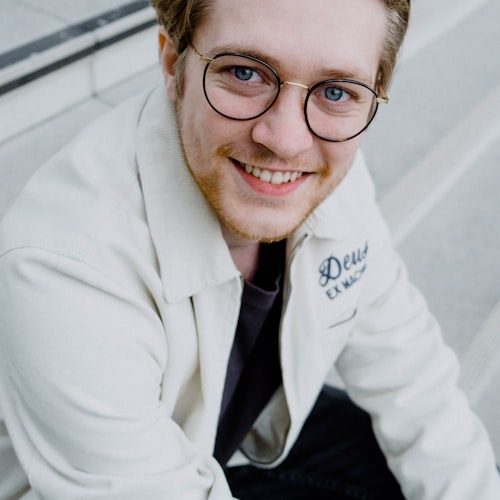
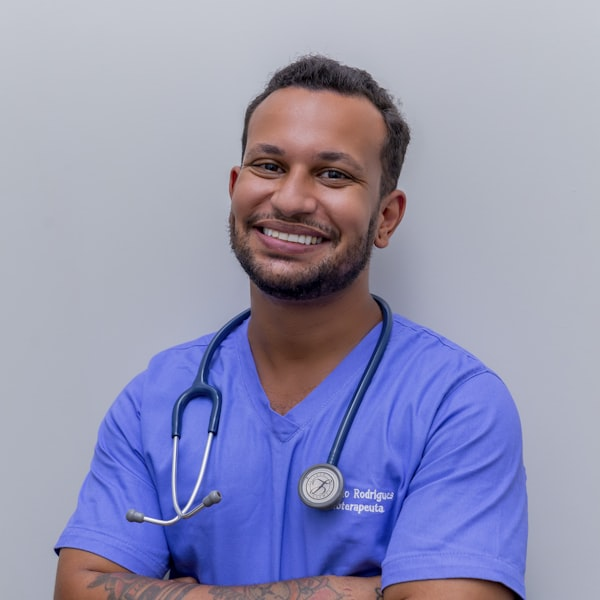
Simplify team cards, use real photos, and fix crop/background issues
- Drop the click-through-to-profile-and-book flow: dentist cards are
  now plain, non-clickable display cards. Removes DoctorProfilePage,
  its route, its test, and the hover-lift affordance that implied
  clickability.
- Replace the abstract generated avatars with real (free-license
  Unsplash, medical-context) photos for the 5 newest dentists.
- Swap Aisha Rahman's and Noah Bergström's photos, and Sofia Torres's,
  for ones visually distinct from dentists they were echoing.
- Fix source photos for Liam Chen, Marcus Webb, Thomas Okafor, and
  Grace Lindqvist where Unsplash's center-crop had clipped the top of
  the head; re-fetched with a face-aware crop / new photos entirely.
- Give the section its own background band, and switch the photo
  boxes from object-fit: contain (which left empty side gaps) to a
  top-biased cover crop, now safe since every photo has headroom.

diff --git a/frontend/src/styles/landing.css b/frontend/src/styles/landing.css
@@ -742,7 +742,14 @@
 
 /* Team (Meet the Dentists) — an in-page section on the landing page
    itself, styled to match .services-section right above it rather than
-   as its own route. */
+   as its own route. Its own band (like About/Services/Benefits already
+   have) so it reads as a distinct section, not a continuation of Services. */
+
+.team-band {
+  width: 100vw;
+  margin-left: calc(-50vw + 50%);
+  background: linear-gradient(135deg, #d9f2ef, #eafbf8);
+}
 
 .team-section {
   font-family: 'Poppins', 'Segoe UI', system-ui, -apple-system, sans-serif;
@@ -763,13 +770,6 @@
   border: 1px solid var(--l-border);
   border-radius: 20px;
   overflow: hidden;
-  transition: transform 0.3s var(--l-ease), box-shadow 0.3s var(--l-ease), border-color 0.3s ease;
-}
-
-.team-card:hover {
-  transform: translateY(-6px);
-  box-shadow: var(--l-shadow);
-  border-color: rgba(47, 95, 224, 0.25);
 }
 
 .team-card-photo {
@@ -784,10 +784,13 @@
 .team-card-photo img {
   width: 100%;
   height: 100%;
-  /* contain, not cover — a shorter box than the (square) source photos
-     would otherwise crop them; this always shows the whole photo,
-     letterboxed against the card's background gradient instead. */
-  object-fit: contain;
+  /* cover, not contain — contain avoided cropping but left empty gaps on
+     either side (the box is wider than the square source photos). Every
+     photo here has been picked/re-cropped with clear headroom, so a cover
+     fill biased toward the top keeps faces in frame while trimming
+     background top/bottom instead of leaving gaps. */
+  object-fit: cover;
+  object-position: center 20%;
 }
 
 .team-card-initials {
@@ -828,78 +831,6 @@
   -webkit-line-clamp: 3;
   -webkit-box-orient: vertical;
   overflow: hidden;
-}
-
-/* Doctor profile (highlight page) */
-
-.profile-band {
-  padding: 64px 0 96px;
-}
-
-.back-link-landing {
-  display: inline-flex;
-  align-items: center;
-  gap: 6px;
-  color: var(--l-text-muted);
-  font-weight: 600;
-  font-size: 14px;
-  margin-bottom: 32px;
-}
-
-.back-link-landing:hover {
-  color: var(--l-blue);
-}
-
-.profile-grid {
-  display: grid;
-  grid-template-columns: 320px 1fr;
-  gap: 48px;
-  align-items: start;
-}
-
-.profile-photo {
-  width: 100%;
-  aspect-ratio: 1 / 1;
-  border-radius: 24px;
-  overflow: hidden;
-  box-shadow: var(--l-shadow-soft);
-  background: linear-gradient(150deg, var(--l-bg-soft), #d6e4fb);
-  display: flex;
-  align-items: center;
-  justify-content: center;
-}
-
-.profile-photo img {
-  width: 100%;
-  height: 100%;
-  object-fit: cover;
-}
-
-.profile-photo-initials {
-  font-size: 72px;
-  font-weight: 800;
-  color: var(--l-blue);
-}
-
-.profile-specialty {
-  color: var(--l-blue);
-  font-weight: 700;
-  font-size: 16px;
-  margin: 0 0 4px;
-}
-
-.profile-dept {
-  color: var(--l-text-muted);
-  font-size: 14px;
-  margin: 0 0 24px;
-}
-
-.profile-bio {
-  color: var(--l-text-muted);
-  font-size: 16px;
-  line-height: 1.75;
-  margin: 0 0 28px;
-  max-width: 560px;
 }
 
 /* Benefits */
@@ -1116,14 +1047,6 @@
   .services-grid,
   .team-grid {
     grid-template-columns: 1fr;
-  }
-
-  .profile-grid {
-    grid-template-columns: 1fr;
-  }
-
-  .profile-photo {
-    max-width: 280px;
   }
 
   .stat-grid {

diff --git a/frontend/src/data/doctorPhotos.js b/frontend/src/data/doctorPhotos.js
@@ -3,16 +3,13 @@ import liamChen from '../assets/doctors/liam-chen.jpg';
 import priyaNair from '../assets/doctors/priya-nair.jpg';
 import marcusWebb from '../assets/doctors/marcus-webb.jpg';
 import sofiaTorres from '../assets/doctors/sofia-torres.jpg';
-// Generated abstract avatars (DiceBear "shapes"), not photos of real
-// people — these 5 were added to seed.py after the original 5, which
-// shipped with real stock photos; using more stock photos of actual
-// strangers as fake doctor headshots isn't something to do lightly, so
-// these get a distinct, consistent, likeness-free style instead.
-import elenaVasquez from '../assets/doctors/elena-vasquez.png';
-import noahBergstrom from '../assets/doctors/noah-bergstrom.png';
-import aishaRahman from '../assets/doctors/aisha-rahman.png';
-import thomasOkafor from '../assets/doctors/thomas-okafor.png';
-import graceLindqvist from '../assets/doctors/grace-lindqvist.png';
+// Free-license Unsplash stock photos (medical/lab-coat context, matching
+// the original 5) — these 5 were added to seed.py after the original 5.
+import elenaVasquez from '../assets/doctors/elena-vasquez.jpg';
+import noahBergstrom from '../assets/doctors/noah-bergstrom.jpg';
+import aishaRahman from '../assets/doctors/aisha-rahman.jpg';
+import thomasOkafor from '../assets/doctors/thomas-okafor.jpg';
+import graceLindqvist from '../assets/doctors/grace-lindqvist.jpg';
 
 // Keyed by the seeded demo dentists (backend/seed.py) — staff-added dentists
 // without a matching name fall back to the initials avatar in DoctorsPage.

diff --git a/frontend/src/pages/LandingPage.jsx b/frontend/src/pages/LandingPage.jsx
@@ -1,5 +1,4 @@
 import { useEffect, useState } from 'react';
-import { Link } from 'react-router-dom';
 import '../styles/landing.css';
 import { useReveal } from '../hooks/useReveal';
 import { useAuth } from '../context/AuthContext';
@@ -235,6 +234,7 @@ export default function LandingPage() {
         </section>
         </div>
 
+        <div className="team-band">
         <section
           ref={teamRef}
           className={`landing-section team-section reveal${teamVisible ? ' reveal-visible' : ''}`}
@@ -260,7 +260,7 @@ export default function LandingPage() {
               {doctors.map((doc) => {
                 const photo = resolveDoctorPhoto(doc);
                 return (
-                  <Link key={doc.id} to={`/team/${doc.id}`} className="team-card">
+                  <div key={doc.id} className="team-card">
                     <div className="team-card-photo">
                       {photo ? (
                         <img src={photo} alt="" />
@@ -274,12 +274,13 @@ export default function LandingPage() {
                       <p className="team-card-dept">{doc.departmentName}</p>
                       {doc.bio && <p className="team-card-bio">{doc.bio}</p>}
                     </div>
-                  </Link>
+                  </div>
                 );
               })}
             </div>
           )}
         </section>
+        </div>
 
         <div className="benefits-band">
         <section ref={benefitsRef} className="landing-section">

diff --git a/frontend/src/pages/LandingPage.test.jsx b/frontend/src/pages/LandingPage.test.jsx
@@ -92,7 +92,7 @@ describe('LandingPage', () => {
       expect(api.get).toHaveBeenCalledWith('/public/doctors');
     });
 
-    it("links each dentist card to their own highlight page, not the old doctors listing", async () => {
+    it('shows each dentist as a plain display card, not a link to a booking flow', async () => {
       api.get.mockImplementation((path) => {
         if (path === '/public/doctors') return Promise.resolve({ doctors: DOCTORS });
         return Promise.resolve({ user: null });
@@ -100,8 +100,8 @@ describe('LandingPage', () => {
       renderLanding();
       await screen.findByText('Dr. Amara Osei');
 
-      const links = screen.getAllByRole('link').filter((l) => l.getAttribute('href')?.startsWith('/team/'));
-      expect(links.map((l) => l.getAttribute('href')).sort()).toEqual(['/team/1', '/team/2']);
+      const teamLinks = screen.getAllByRole('link').filter((l) => l.getAttribute('href')?.startsWith('/team'));
+      expect(teamLinks).toHaveLength(0);
     });
 
     it('shows an empty state instead of an empty grid when the team directory has nobody in it', async () => {

diff --git a/frontend/src/App.jsx b/frontend/src/App.jsx
@@ -10,7 +10,6 @@ import DocumentsPage from './pages/DocumentsPage';
 import ChatPage from './pages/ChatPage';
 import DashboardPage from './pages/DashboardPage';
 import DoctorsPage from './pages/DoctorsPage';
-import DoctorProfilePage from './pages/DoctorProfilePage';
 import BookAppointmentPage from './pages/BookAppointmentPage';
 import MyAppointmentsPage from './pages/MyAppointmentsPage';
 import ManageDirectoryPage from './pages/ManageDirectoryPage';
@@ -49,7 +48,6 @@ export default function App() {
       <AuthProvider>
         <Routes>
           <Route path="/" element={<Home />} />
-          <Route path="/team/:doctorId" element={<DoctorProfilePage />} />
           <Route path="/login" element={<RedirectIfAuthed><LoginPage /></RedirectIfAuthed>} />
           <Route path="/register" element={<RedirectIfAuthed><RegisterPage /></RedirectIfAuthed>} />
           <Route path="/forgot-password" element={<RedirectIfAuthed><ForgotPasswordPage /></RedirectIfAuthed>} />
